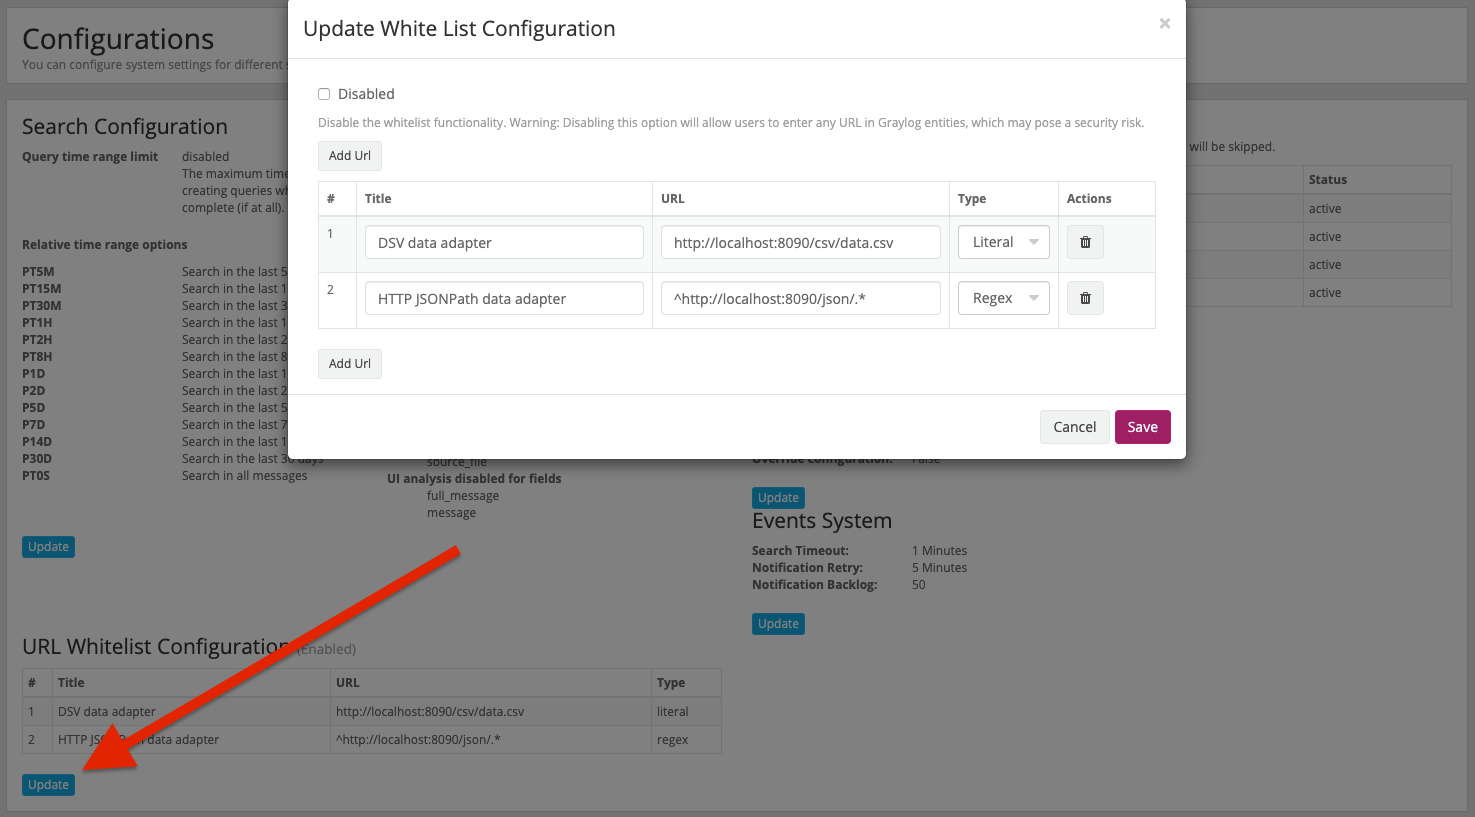
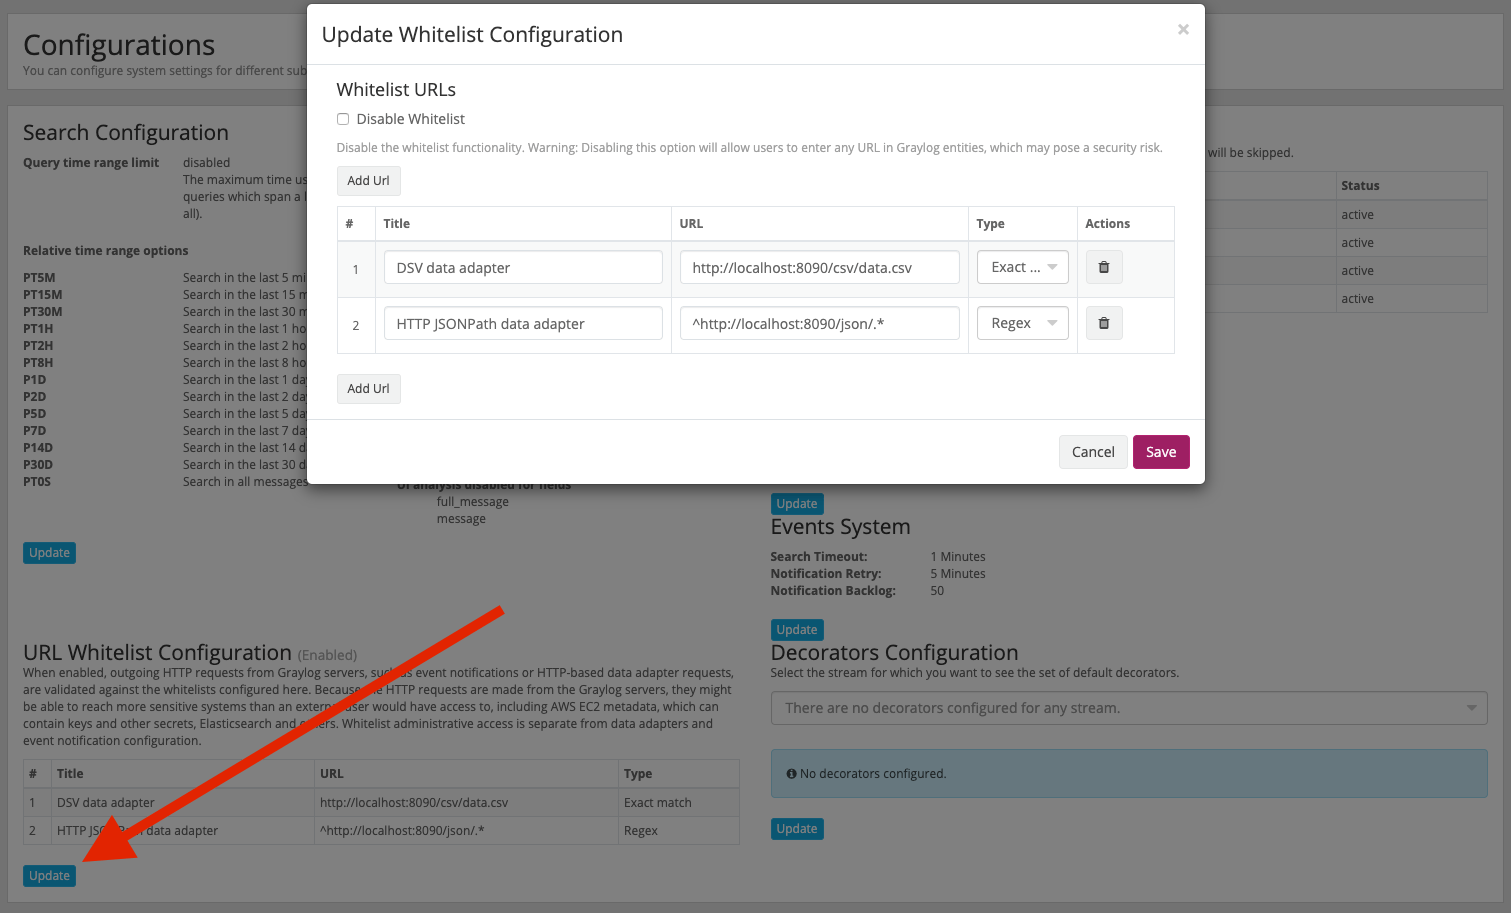
Adjust wording and screenshot to match current implementation

diff --git a/pages/secure/sec_url_whitelist.rst b/pages/secure/sec_url_whitelist.rst
@@ -27,16 +27,16 @@ Disabling the whitelist
 If the security implications mentioned above are of no concern, the whitelist can be disabled. When disabled, HTTP
 requests will not be restricted.
 
-Literal whitelist entries
+"Exact match" whitelist entries
+-------------------------------
+
+Whitelist entries of type ``Exact match`` contain a string which will be matched against a URL by direct comparison. If
+the URL is equal to this string, it is considered to be whitelisted.
+
+"Regex" whitelist entries
 -------------------------
 
-Whitelist entries of type ``literal`` contain a string which will be matched against a URL by direct comparison. If the URL is
-equal to this string, it is considered to be whitelisted.
-
-Regex whitelist entries
------------------------
-
-Whitelist entries or type ``regex`` contain a regular expression. If a URL matches the regular expression, the URL is
+Whitelist entries of type ``Regex`` contain a regular expression. If a URL matches the regular expression, the URL is
 considered to be whitelisted. Graylog uses the
 `Java Pattern class <http://docs.oracle.com/javase/7/docs/api/java/util/regex/Pattern.html>`_ to evaluate regular
 expressions.
